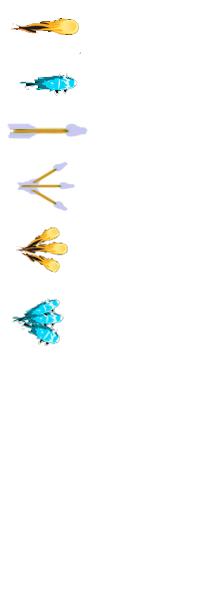
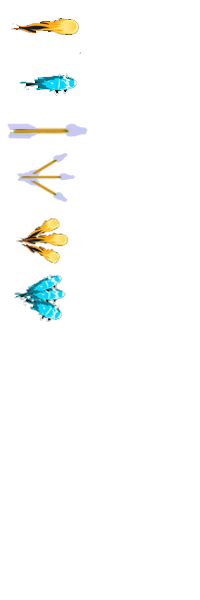
점수 적용

Changed region(s): [[0.06, 0.24, 0.36, 0.6]]

diff --git a/2D게임/main_state.py b/2D게임/main_state.py
@@ -13,6 +13,7 @@ from grass import Grass
 from Inventory import inventory
 from Monster import Slime
 from bullet import Bullet
+from Score import game_Score
 name = "MainState"
 
 boy = None
@@ -23,6 +24,7 @@ monsters = None
 
 bullet = None
 
+score = None
 
 Boy_ID = 0
 Monster_Spawn_time = 0
@@ -53,10 +55,12 @@ def In_Collide_Range(a, b):
 
 def enter():
     get_time()
-    global boy, boy1, grass, Inventory, bullet
+    global boy, boy1, grass, Inventory, bullet, score
     bullet = Bullet()
     boy = Boy()
     boy1 = Boy()
+
+    score = game_Score()
 
     Inventory = inventory()
     grass = Grass()
@@ -65,6 +69,7 @@ def enter():
     boy.Get_inven(Inventory)
     boy1.Get_inven(Inventory)
     game_world.add_object(grass, 0)
+    game_world.add_object(score, 0)
     game_world.add_object(Inventory, 0)
     game_world.add_object(boy, 1)
     game_world.add_object(boy1, 1)
@@ -87,7 +92,6 @@ def handle_events():
     global Boy_ID
     events = get_events()
 
-
     for event in events:
         if event.type == SDL_QUIT:
             game_framework.quit()
@@ -109,14 +113,20 @@ def handle_events():
 
 
 def update():
-    global Monster_Spawn_time
+    global Monster_Spawn_time, grass
+
+    if grass.castle_hp <= 0:
+        game_world.clear()
+        game_framework.change_state(pause_state)
 
     Monster_Spawn_time += game_framework.frame_time
     if Monster_Spawn_time >= 2:
         global monsters, SlimeHp
         SlimeHp += 5
         clamp(0,SlimeHp,1000)
-        monsters = [Slime(SlimeHp, random.randint(0, 3), grass) for i in range(int(SlimeHp / 10))]
+        monsters = [Slime(SlimeHp, random.randint(0, 3),
+                          grass, random.randint(int(SlimeHp / 10),
+                                                clamp(0, int(SlimeHp), 130))) for i in range(int(SlimeHp / 10))]
         game_world.add_objects(monsters, 3)
         Monster_Spawn_time = 0
         print(int(SlimeHp / 10))
@@ -128,16 +138,21 @@ def update():
     monster_corps = game_world.Return_layer3_obj()
 
     if len(bullets) != 0:
-
+        global score
         for monster in monster_corps:
             for bullet in bullets:
                 if collide(bullet, monster):
                     for monster in monster_corps:
                         if In_Collide_Range(bullet, monster):
                             monster.In_Collide_Range = True
-                            if bullet.data != 'fire_arrow' and bullet.data != 'ice_arrow':
+                            if bullet.data == 'arrow' or bullet.data == 'sector_form_arrow':
                                 bullet.data = 'arrow'
+                            elif bullet.data == 'fire_arrow' or bullet.data == 'sector_form_fire_arrow':
+                                bullet.data = 'fire_arrow'
+                            elif bullet.data == 'ice_arrow' or bullet.data == 'sector_form_ice_arrow':
+                                bullet.data = 'ice_arrow'
                             monster.Attacked(bullet.data, bullet.move_x, bullet.move_y)
+                            score.total_Score += 1
                             bullet.explosion = True
 
 

diff --git a/2D게임/Monster.py b/2D게임/Monster.py
@@ -47,14 +47,12 @@ class RunState:
         if Slime.x >= 420:
             Slime.x -= RUN_SPEED_PPS * math.cos(Slime.dir) * game_framework.frame_time
             Slime.add_event(ATTACK)
-
-
         pass
 
     @staticmethod
     def draw(Slime):
         Slime.image.opacify(clamp(0.5,Slime.HP/Slime.start_HP,1))
-        Slime.image.rotate_draw(Slime.dir, Slime.x, Slime.y)
+        Slime.image.rotate_draw(Slime.dir, Slime.x, Slime.y, 30*Slime.size, 30*Slime.size)
 
 
 class Attack_State:
@@ -88,7 +86,8 @@ class Attack_State:
     @staticmethod
     def draw(Slime):
         Slime.image.opacify(clamp(0.5, Slime.HP / Slime.start_HP, 1))
-        Slime.image.rotate_draw(Slime.dir, Slime.x, Slime.y)
+        Slime.image.rotate_draw(Slime.dir, Slime.x, Slime.y, 30*Slime.size, 30*Slime.size)
+
         pass
 
 
@@ -116,8 +115,8 @@ class Fire_Attacked_State:
     @staticmethod
     def draw(Slime):
         Slime.image.opacify(clamp(0.5, Slime.HP / Slime.start_HP, 1))
-        Slime.image.rotate_draw(Slime.dir, Slime.x, Slime.y)
-        pass
+        Slime.image.rotate_draw(Slime.dir, Slime.x, Slime.y, 30*Slime.size, 30*Slime.size)
+
 
 
 class Ice_Attacked_State:
@@ -142,8 +141,8 @@ class Ice_Attacked_State:
     @staticmethod
     def draw(Slime):
         Slime.image.opacify(clamp(0.5, Slime.HP / Slime.start_HP, 1))
-        Slime.image.rotate_draw(Slime.dir, Slime.x, Slime.y)
-        pass
+        Slime.image.rotate_draw(Slime.dir, Slime.x, Slime.y, 30*Slime.size, 30*Slime.size)
+
 
 
 class Attacked_State:
@@ -171,8 +170,8 @@ class Attacked_State:
     @staticmethod
     def draw(Slime):
         Slime.image.opacify(clamp(0.5, Slime.HP / Slime.start_HP, 1))
-        Slime.image.rotate_draw(0, Slime.x, Slime.y)
-        pass
+        Slime.image.rotate_draw(Slime.dir, Slime.x, Slime.y, 30*Slime.size, 30*Slime.size)
+
 
 
 next_state_table = {
@@ -192,7 +191,7 @@ next_state_table = {
 class Slime:
 
     image = None
-    def __init__(self, hp, type,castle):
+    def __init__(self, hp, type, castle, size):
         self.x, self.y = 0, random.randint(0, 600)
         if Slime.image == None:
             Slime.image = load_image('Monster1.png')
@@ -212,6 +211,13 @@ class Slime:
         self.damage = 0
         self.charge = False
         self.In_Collide_Range = False
+
+        if size >= 100:
+            self.size = 3
+            self.HP = hp * 10
+            self.start_HP = hp * 10
+        else:
+            self.size = 1
         self.build_behavior_tree()
         self.event_que = []
         self.cur_state = RunState

diff --git a/2D게임/boy.py b/2D게임/boy.py
@@ -139,6 +139,8 @@ class farming_state:
             boy.inventory.item['fire_arrow'] = int(boy.inventory.item['arrow'] / 10)
             boy.inventory.item['ice_arrow'] = int(boy.inventory.item['arrow'] / 10)
             boy.inventory.item['sector_form_arrow'] = int(boy.inventory.item['arrow'] / 10)
+            boy.inventory.item['sector_form_fire_arrow'] = int(boy.inventory.item['arrow'] / 30)
+            boy.inventory.item['sector_form_ice_arrow'] = int(boy.inventory.item['arrow'] / 30)
             boy.frame = 0
 
     @staticmethod
@@ -194,9 +196,10 @@ class Boy:
     def fire_ball(self, data, speed):
         if time.time() - self.shoot_timer > 0.3 and self.inventory.pop(data):
             self.shoot_timer = time.time()
-            if data == 'sector_form_arrow':
+            if data == 'sector_form_arrow' or data == 'sector_form_fire_arrow' or data == 'sector_form_ice_arrow':
                 for i in range(0, 10):
-                    ball = Bullet(self.x, self.y, ARROW_SPEED_PPS + speed * PIXEL_PER_METER, self.degreeAT - 3.141592 / 4 + 3.141592 / 20 * i, data)
+                    ball = Bullet(self.x, self.y, ARROW_SPEED_PPS + speed * PIXEL_PER_METER, self.degreeAT
+                                  - 3.141592 / 4 + 3.141592 / 20 * i, data)
                     game_world.add_object(ball, 2)
             else:
                 ball = Bullet(self.x, self.y, ARROW_SPEED_PPS + speed * PIXEL_PER_METER, self.degreeAT, data)
@@ -246,6 +249,12 @@ class Boy:
                         return
                     elif self.move_mouse_y >= 400 and self.move_mouse_y <= 450:
                         self.bullet_type = 'sector_form_arrow'
+                        return
+                    elif self.move_mouse_y >= 350 and self.move_mouse_y <= 400:
+                        self.bullet_type = 'sector_form_fire_arrow'
+                        return
+                    elif self.move_mouse_y >= 300 and self.move_mouse_y <= 350:
+                        self.bullet_type = 'sector_form_ice_arrow'
                         return
         if event.button == SDL_BUTTON_LEFT and event.type == SDL_MOUSEBUTTONUP:
             self.click_time = time.time() * 30 - self.click_time

diff --git a/2D게임/Inventory.py b/2D게임/Inventory.py
@@ -9,20 +9,27 @@ class inventory:
     def __init__(self):
         self.image = load_image('ui\\inventory.png')
         self.font = load_font('font\\godoMaum.ttf', 50)
-        self.item = {'fire_arrow': 0, 'ice_arrow': 0, 'arrow': 0, 'sector_form_arrow': 0}
+        self.item = {'fire_arrow': 0, 'ice_arrow': 0, 'arrow': 0, 'sector_form_arrow': 0, 'sector_form_fire_arrow': 0,
+                     'sector_form_ice_arrow': 0}
 
     def insert(self, data):
         self.item[data] += 1
 
     def pop(self, data):
-        if data != 'arrow':
+        if data == 'sector_form_arrow':
             self.item['arrow'] -= 10
+
+        if data == 'sector_form_fire_arrow' or data == 'sector_form_ice_arrow':
+            self.item['arrow'] -= 30
         if self.item[data] > 0:
             self.item[data] -= 1
             return True
         else:
-            self.item['arrow'] += 10
-            if self.item['arrow'] == 10:
+            if data == 'sector_form_arrow':
+                self.item['arrow'] += 10
+            if data == 'sector_form_fire_arrow' or data == 'sector_form_ice_arrow':
+                self.item['arrow'] += 30
+            if self.item['arrow'] % 10 == 0:
                 self.item['arrow'] = 0
             return False
 
@@ -34,6 +41,11 @@ class inventory:
         self.font.draw(900, 570, ' %3d' % self.item['fire_arrow'], (color(255 - self.item['fire_arrow']), 0, 0))
         self.font.draw(900, 520, ' %3d' % self.item['ice_arrow'], (color(255 - self.item['ice_arrow']), 0, 0))
         self.font.draw(900, 470, ' %3d' % self.item['arrow'], (color(255 - self.item['arrow']), 0, 0))
+        self.font.draw(900, 420, ' %3d' % self.item['sector_form_arrow'], (color(255 - self.item['sector_form_arrow']), 0, 0))
+        self.font.draw(900, 370, ' %3d' % self.item['sector_form_fire_arrow'],
+                       (color(255 - self.item['sector_form_fire_arrow']), 0, 0))
+        self.font.draw(900, 320, ' %3d' % self.item['sector_form_ice_arrow'],
+                       (color(255 - self.item['sector_form_ice_arrow']), 0, 0))
         pass
 
     def handle_event(self, event):

diff --git a/2D게임/bullet.py b/2D게임/bullet.py
@@ -54,19 +54,19 @@ class Bullet:
 
     def draw(self):
         if not self.explosion:
-            if self.data == 'fire_arrow':
+            if self.data == 'fire_arrow' or self.data == 'sector_form_fire_arrow':
                 self.fire_arrow_image.clip_composite_draw(int(self.frame) * 90, 0, 90, 30, self.degreeAT, '',self.x, self.y, 90, 30)
-            elif self.data == 'ice_arrow':
+            elif self.data == 'ice_arrow'or self.data == 'sector_form_ice_arrow':
                 self.ice_arrow_image.clip_composite_draw(int(self.frame) * 90, 0, 90, 30, self.degreeAT, '',self.x, self.y, 90, 30)
             elif self.data == 'arrow':
                 self.arrow_image.rotate_draw(self.degreeAT + 3.141592, self.x, self.y)
             elif self.data == 'sector_form_arrow':
                 self.arrow_image.rotate_draw(self.degreeAT + 3.141592, self.x, self.y)
         else:
-            if self.data == 'fire_arrow':
+            if self.data == 'fire_arrow' or self.data == 'sector_form_fire_arrow':
                 self.fire_explosion_image.clip_composite_draw(int(self.effect_frame) * 70, 0, 70, 70,
                                                               self.degreeAT, '', self.x, self.y, 70, 70)
-            elif self.data == 'ice_arrow':
+            elif self.data == 'ice_arrow'or self.data == 'sector_form_ice_arrow':
                 self.ice_explosion_image.clip_composite_draw(int(self.effect_frame) * 45, 0, 45, 30,
                                                              self.degreeAT, '', self.x, self.y, 70, 70)
             elif self.data == 'arrow':

diff --git a/2D게임/Score.py b/2D게임/Score.py
@@ -1,3 +1,25 @@
 from pico2d import *
+import numpy as np
+
 import game_framework
-import game_world
+
+
+
+class game_Score:
+    def __init__(self):
+        self.total_Score = 0
+        self.font = load_font('font\\godoMaum.ttf', 50)
+        self.timer = 0
+
+    def draw(self):
+        self.font.draw(810, 200, 'score : %3d' % self.total_Score, (0, 0, 0))
+
+    def update(self):
+        self.timer += game_framework.frame_time
+        if self.timer >= 0.5:
+            self.total_Score += 1
+            self.timer = 0
+        pass
+
+
+

diff --git a/2D게임/pause_state.py b/2D게임/pause_state.py
@@ -51,6 +51,8 @@ def handle_events():
         else:
             if(event.type, event.key) == (SDL_KEYDOWN, SDLK_p):
                 game_framework.pop_state()
+            elif (event.type, event.key) == (SDL_KEYDOWN, SDLK_r):
+                game_framework.change_state(main_state)
 
 
     pass
